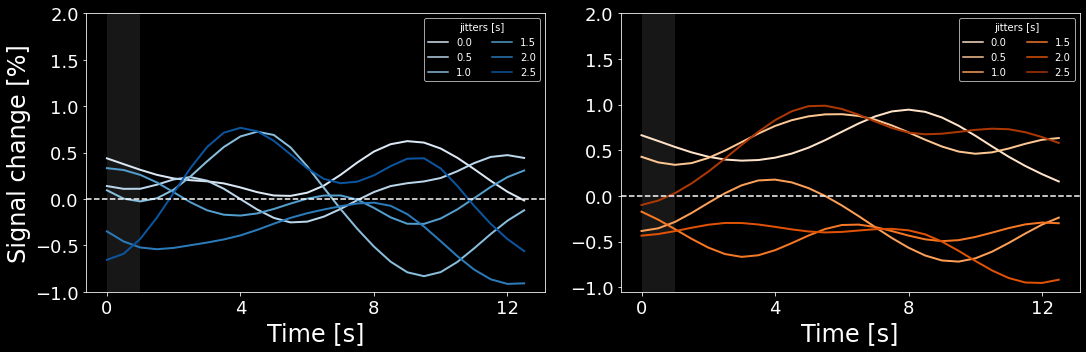
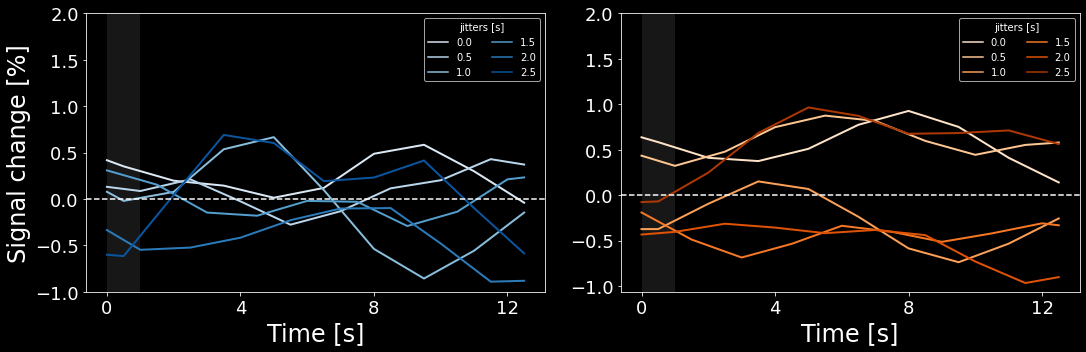
Plotting event-related averages with linear interpolation

diff --git a/code/analysis/06_plotEvents.py b/code/analysis/06_plotEvents.py
@@ -104,8 +104,6 @@ for sub in subs:
     allStopTRs = np.asarray(allStopTRs).astype('int')
 
 
-
-
     for stimDuration in [1., 2., 4., 12., 24.]:
 
         # initiate lists
@@ -144,7 +142,7 @@ for sub in subs:
         for modality in ['vaso', 'bold']:
         # for modality in ['bold']:
 
-            mriData = np.load(f'{DATADIR}/{sub}_task-stimulation_part-mag_{modality}_intemp_timecourse_intemp.npy')
+            mriData = np.load(f'{DATADIR}/{sub}_task-stimulation_part-mag_{modality}_intemp_timecourse_intemp-linear.npy')
             # Because we want the % signal-change, we need the mean
             # of the voxels we are looking at.
             mask_mean = np.mean(mriData)
@@ -233,7 +231,7 @@ for stimDuration in [1., 2., 4., 12., 24.]:
     else:
         plt.title(f'{int(stimDuration)} seconds stimulation', fontsize=24,pad=10)
 
-    plt.savefig(f'/Users/sebastiandresbach/git/neurovascularCouplingVASO/results/sub-01_{int(stimDuration)}.png', bbox_inches = "tight")
+    plt.savefig(f'/Users/sebastiandresbach/git/neurovascularCouplingVASO/results/sub-01_{int(stimDuration)}_intemp-linear.png', bbox_inches = "tight")
 
     plt.show()
 
@@ -296,7 +294,7 @@ for stimDuration in [1., 2., 4., 12., 24.]:
 
     ax1.set_ylabel(r'Signal change [%]', fontsize=24)
     ax2.set_ylabel(r'', fontsize=24)
-    plt.savefig(f'../../results/sub-01_{int(stimDuration)}_jitters.png', bbox_inches = "tight")
+    plt.savefig(f'results/sub-01_{int(stimDuration)}_jitters_intemp-linear.png', bbox_inches = "tight")
 
     plt.show()
 
